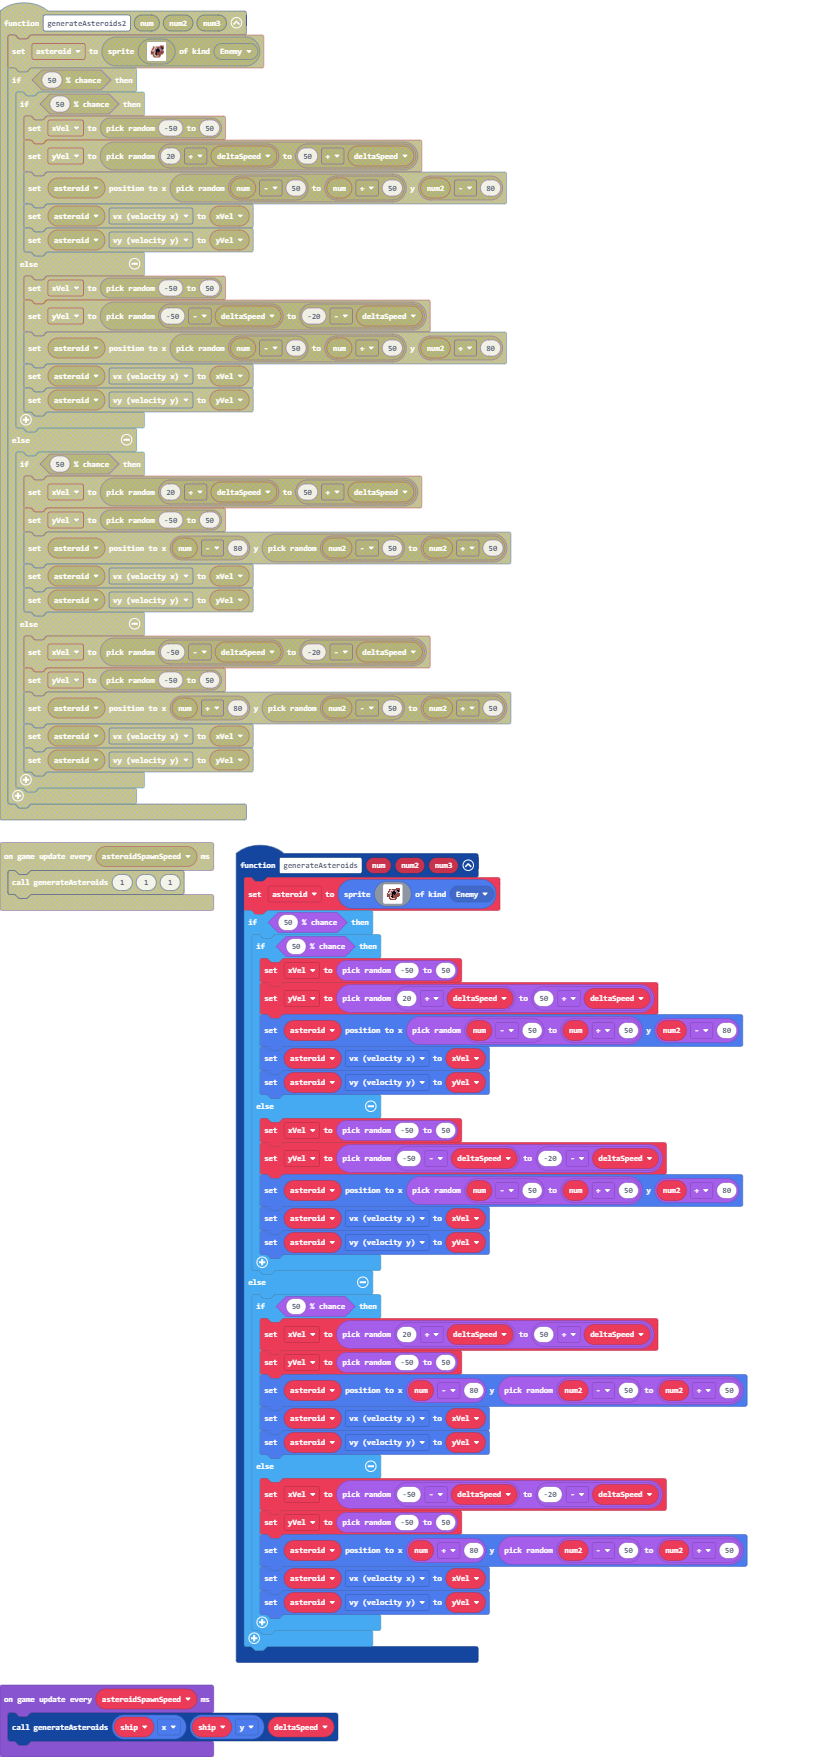
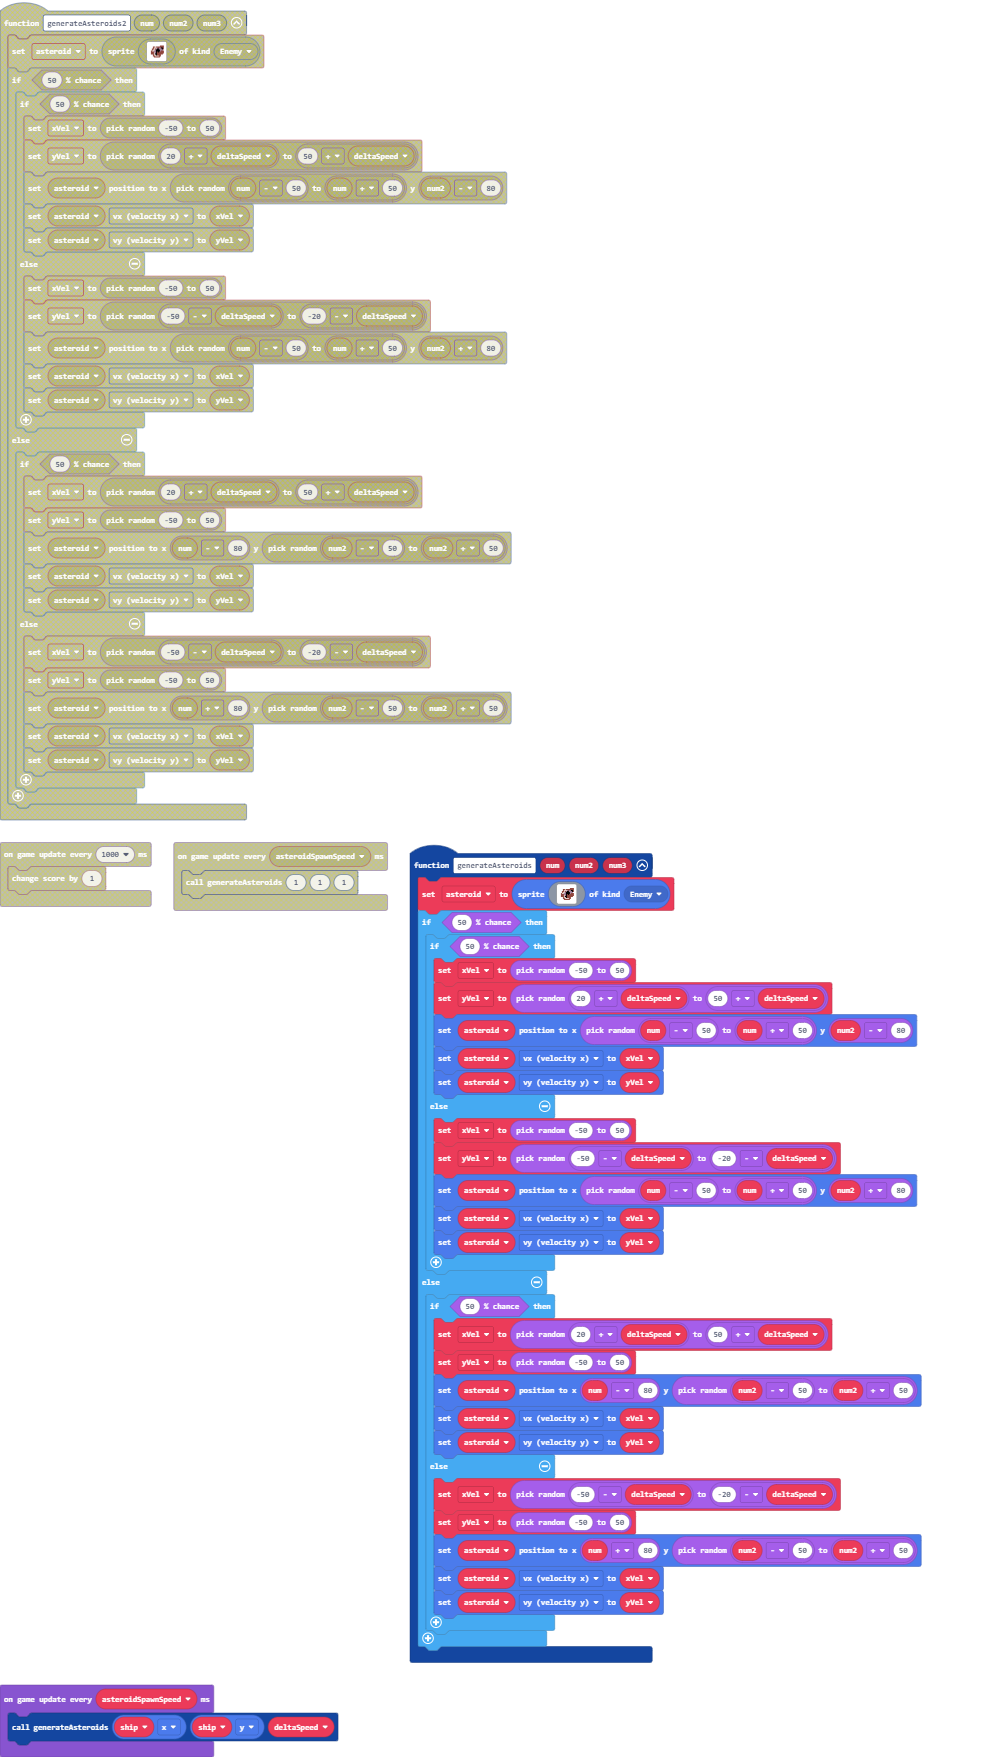
Update main.blocks, main.ts

Changed region(s): [[0.0, 0.0, 0.9394, 1.0]]

diff --git a/main.ts b/main.ts
@@ -329,9 +329,6 @@ game.onUpdate(function () {
         ship.startEffect(effects.fire)
     }
 })
-game.onUpdateInterval(1000, function () {
-    info.changeScoreBy(1)
-})
 game.onUpdateInterval(asteroidSpawnSpeed, function () {
     generateAsteroids(ship.x, ship.y, deltaSpeed)
 })
